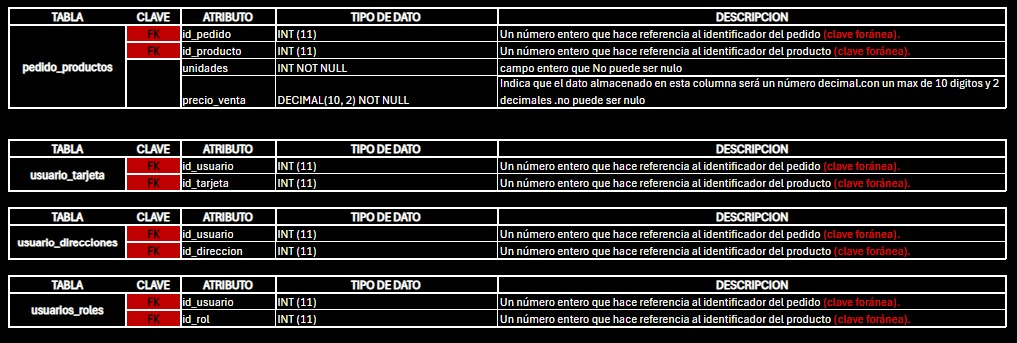
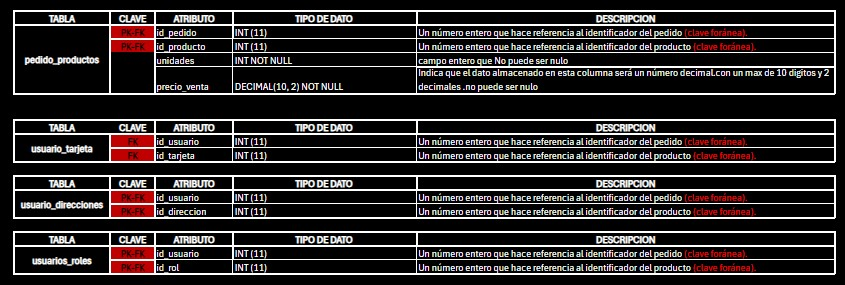
claves y cardinalidad falta el diagrama chen

diff --git a/README.md b/README.md
@@ -75,7 +75,7 @@ ___
 + _Atributos_:id_pedido, id_producto, unidades, precio_venta.
 ___
 
-### Documentación de Tablas
+### Documentación de Tablas > CLAVES > INDICES > ATRIBUTOS > TIPO DE DATOS > DESCRIPCION Y 
 
 <div aling="center">
     <img src="/img/PK.jpg">
@@ -105,6 +105,9 @@ Pedidos y Productos: Un pedido puede contener múltiples productos y un producto
 
 Pedidos y Direcciones: Un pedido se realiza a una sola dirección.
 Pedidos y Tarjetas: Un pedido se paga con una sola tarjeta.
+
+
+___
 
 
 <div aling="center">
